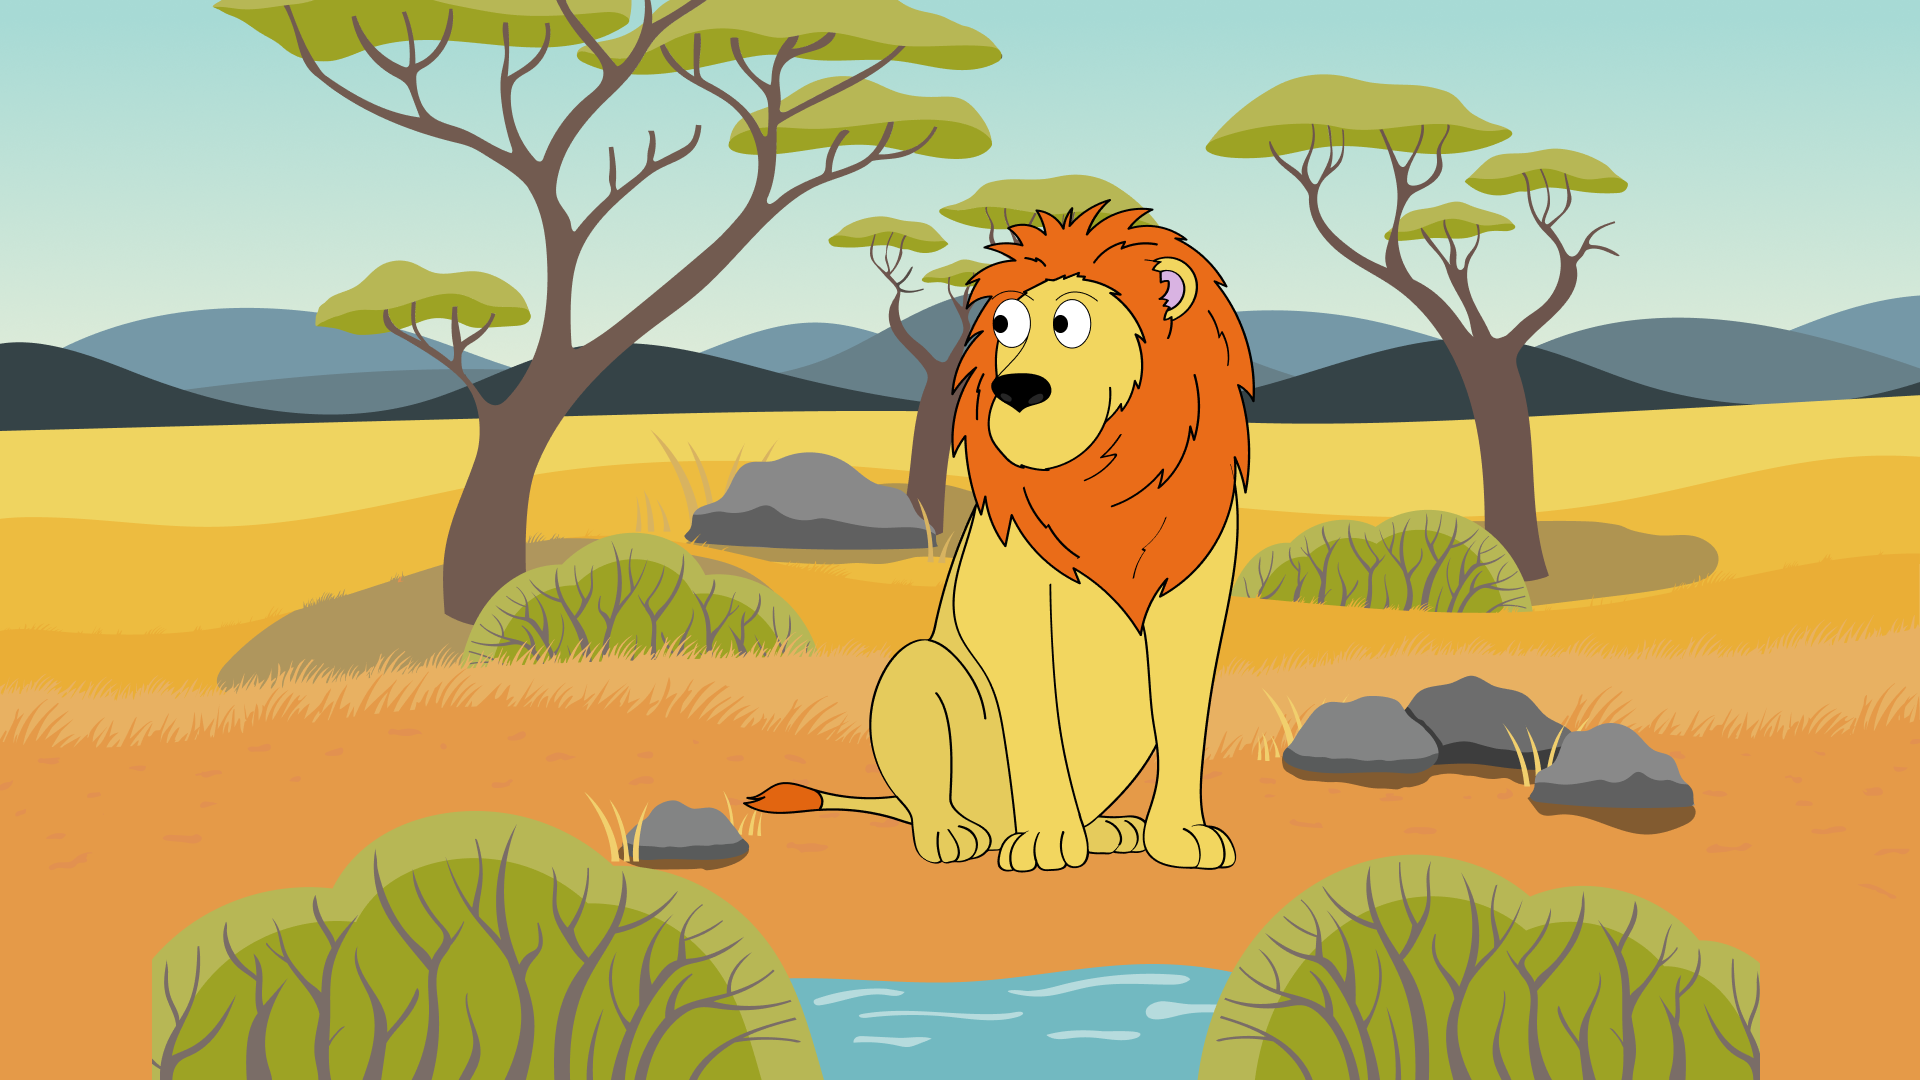
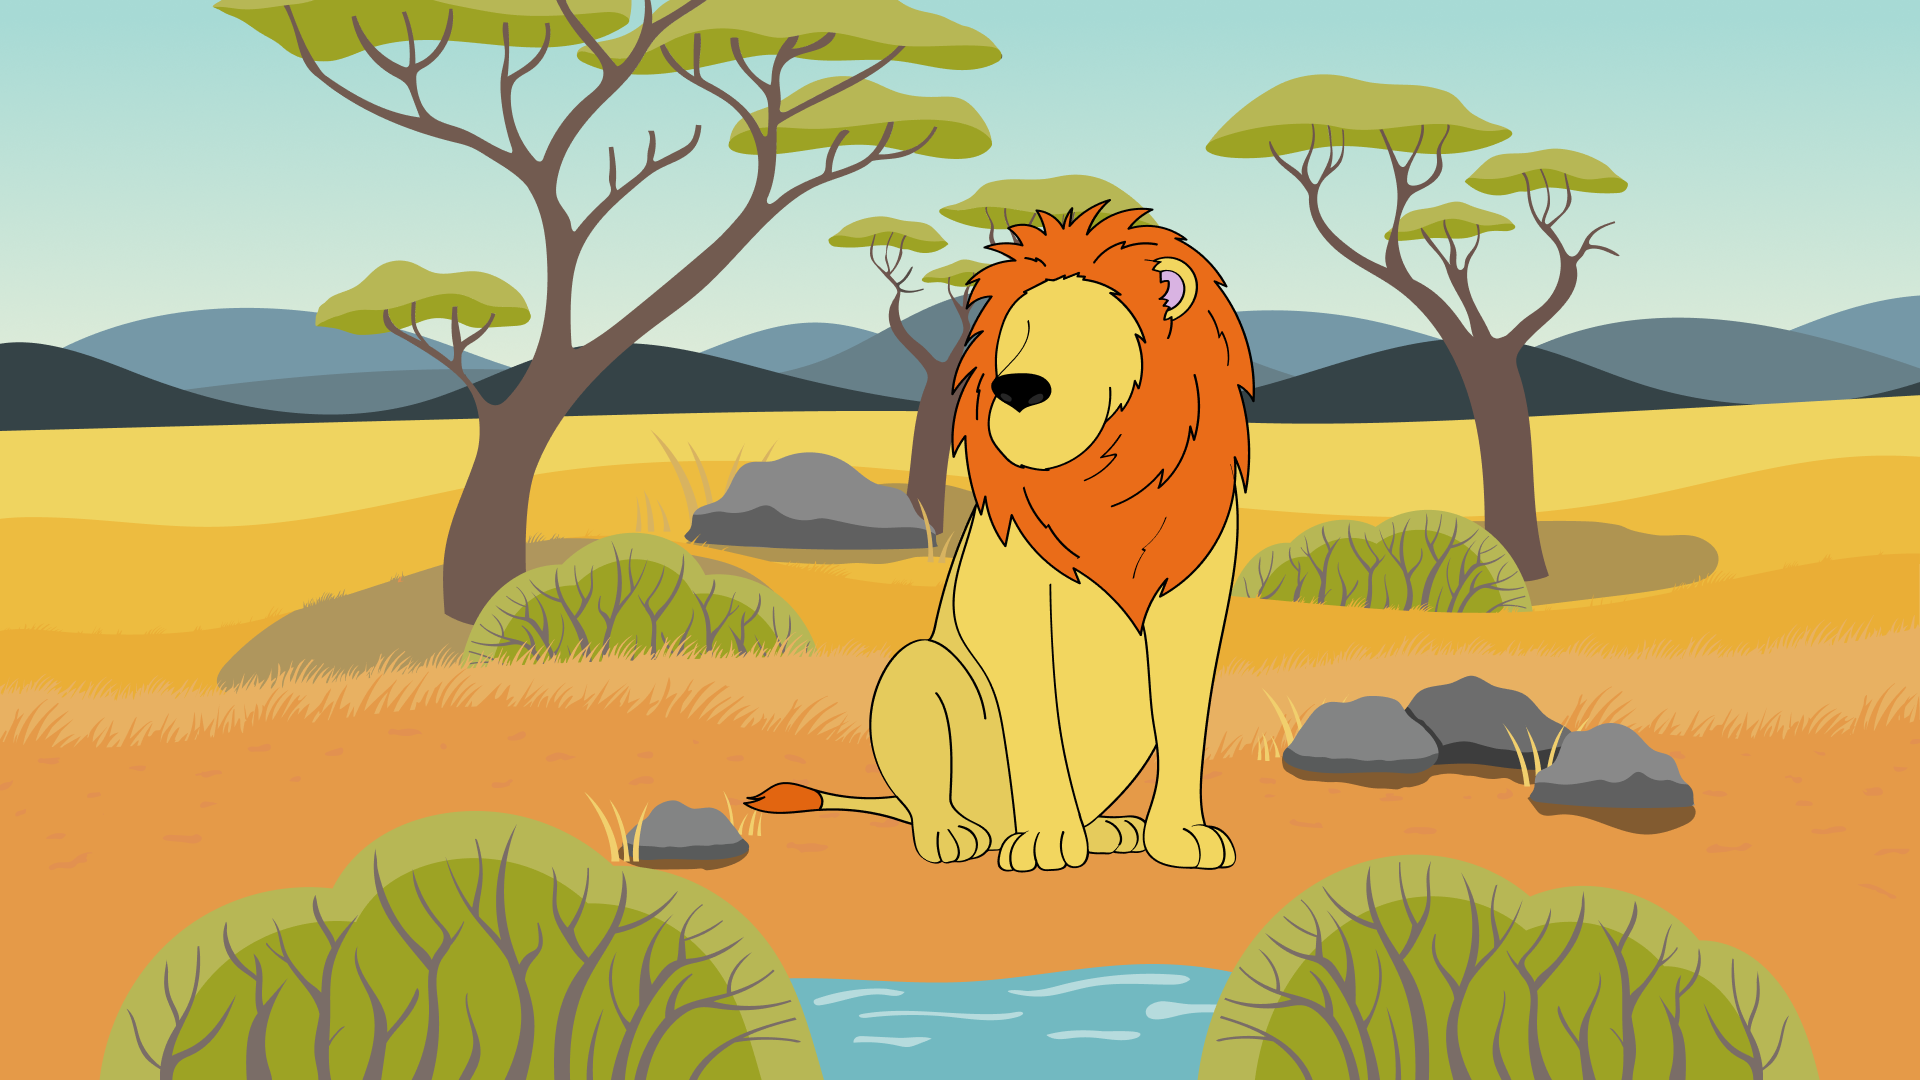
char blinks eyes

Changed region(s): [[0.9062, 0.8861, 0.9688, 1.0], [0.0312, 0.8861, 0.0938, 1.0], [0.5, 0.275, 0.5938, 0.3361]]

diff --git a/speaking_characters/render_episode.py b/speaking_characters/render_episode.py
@@ -1,14 +1,15 @@
+#!/usr/bin/env python3
+
 import os
 import json
 import shutil
 import subprocess
 import argparse
+import random
 from pathlib import Path
 from PIL import Image
-from PIL import ImageDraw
 
 FPS = 25
-
 
 # ======================
 # UTILS
@@ -31,14 +32,86 @@ def ensure_dir(path):
     os.makedirs(path, exist_ok=True)
 
 
-def load_mouth_image(viseme, mouths_dir):
-    filename = f"{viseme}.png"
-    path = os.path.join(mouths_dir, filename)
+# ======================
+# IMAGE LOADERS
+# ======================
 
+def load_mouth_image(viseme, mouths_dir):
+    path = os.path.join(mouths_dir, f"{viseme}.png")
     if not os.path.exists(path):
         raise ValueError(f"Viseme image not found: {path}")
-
     return Image.open(path).convert("RGBA")
+
+
+def load_eye_image(state, eyes_dir):
+    path = os.path.join(eyes_dir, f"{state}.png")
+    if not os.path.exists(path):
+        raise ValueError(f"Eye image not found: {path}")
+    return Image.open(path).convert("RGBA")
+
+
+# ======================
+# EYE TIMELINE GENERATOR
+# ======================
+
+def generate_eye_timeline(duration, eyes_config):
+
+    min_interval = eyes_config.get("min_blink_interval", 3.0)
+    max_interval = eyes_config.get("max_blink_interval", 5.5)
+    min_duration = eyes_config.get("min_blink_duration", 0.18)
+    max_duration = eyes_config.get("max_blink_duration", 0.28)
+
+    timeline = []
+    current_time = 0.0
+
+    while current_time < duration:
+
+        interval = random.uniform(min_interval, max_interval)
+        blink_duration = random.uniform(min_duration, max_duration)
+
+        blink_start = current_time + interval
+        blink_end = blink_start + blink_duration
+
+        if blink_start >= duration:
+            timeline.append({
+                "start": current_time,
+                "end": duration,
+                "eye": "OPEN"
+            })
+            break
+
+        # OPEN phase
+        timeline.append({
+            "start": current_time,
+            "end": blink_start,
+            "eye": "OPEN"
+        })
+
+        # Blink breakdown
+        half_phase = blink_duration * 0.3
+        closed_phase = blink_duration * 0.4
+
+        timeline.append({
+            "start": blink_start,
+            "end": blink_start + half_phase,
+            "eye": "HALF-OPEN"
+        })
+
+        timeline.append({
+            "start": blink_start + half_phase,
+            "end": blink_start + half_phase + closed_phase,
+            "eye": "CLOSED"
+        })
+
+        timeline.append({
+            "start": blink_start + half_phase + closed_phase,
+            "end": blink_end,
+            "eye": "HALF-OPEN"
+        })
+
+        current_time = blink_end
+
+    return timeline
 
 
 # ======================
@@ -66,17 +139,21 @@ def render(episode):
     total_duration = get_total_duration(timeline)
     total_frames = time_to_frame(total_duration)
 
-    print(f"Total duration: {total_duration:.2f}s")
-    print(f"Total frames: {total_frames}")
-
     ensure_dir(FRAMES_DIR)
     ensure_dir(OUTPUT_DIR)
 
+    # Emotions
     emotion_1 = position.get("emotion_1", "HAPPY")
     emotion_2 = position.get("emotion_2", emotion_1)
     transition_time = position.get("emotion_transition_time", float("inf"))
 
+    # Generate procedural eye animation
+    eyes_config = position.get("eyes", {})
+    eye_timeline = generate_eye_timeline(total_duration, eyes_config)
+
+    # Caches
     mouth_cache = {}
+    eye_cache = {}
 
     for frame_number in range(total_frames):
 
@@ -88,52 +165,97 @@ def render(episode):
         else:
             current_emotion = emotion_2
 
+        # ======================
+        # MOUTH
+        # ======================
+
         mouths_dir = f"characters/lion/mouths/{current_emotion}"
 
-        # Find active viseme
         current_viseme = "CLOSED"
-
         for segment in timeline:
             if segment["start"] <= current_time < segment["end"]:
                 current_viseme = segment["viseme"]
                 break
 
-        cache_key = f"{current_emotion}_{current_viseme}"
+        mouth_cache_key = f"{current_emotion}_{current_viseme}"
+        if mouth_cache_key not in mouth_cache:
+            mouth_cache[mouth_cache_key] = load_mouth_image(current_viseme, mouths_dir)
 
-        if cache_key not in mouth_cache:
-            mouth_cache[cache_key] = load_mouth_image(current_viseme, mouths_dir)
+        mouth_img = mouth_cache[mouth_cache_key]
 
-        mouth_img = mouth_cache[cache_key]
+        mouth_cfg = position["mouth"]
 
-        transformed = mouth_img.copy()
-
-        # Scale
-        scale = position.get("scale", 1.0)
-        new_size = (
-            int(transformed.width * scale),
-            int(transformed.height * scale)
+        mouth_transformed = mouth_img.copy()
+        mouth_transformed = mouth_transformed.resize(
+            (
+                int(mouth_transformed.width * mouth_cfg.get("scale", 1)),
+                int(mouth_transformed.height * mouth_cfg.get("scale", 1))
+            ),
+            Image.LANCZOS
         )
-        transformed = transformed.resize(new_size, Image.LANCZOS)
+        mouth_transformed = mouth_transformed.rotate(
+            mouth_cfg.get("rotation", 0),
+            expand=True
+        )
 
-        # Rotation
-        rotation = position.get("rotation", 0)
-        transformed = transformed.rotate(rotation, expand=True)
+        # ======================
+        # EYES
+        # ======================
 
-        # Composite
+        eyes_dir = f"characters/lion/eyes/{current_emotion}"
+
+        current_eye_state = "OPEN"
+        for segment in eye_timeline:
+            if segment["start"] <= current_time < segment["end"]:
+                current_eye_state = segment["eye"]
+                break
+
+        eye_cache_key = f"{current_emotion}_{current_eye_state}"
+        if eye_cache_key not in eye_cache:
+            eye_cache[eye_cache_key] = load_eye_image(current_eye_state, eyes_dir)
+
+        eye_img = eye_cache[eye_cache_key]
+
+        eyes_cfg = position["eyes"]
+
+        eye_transformed = eye_img.copy()
+        eye_transformed = eye_transformed.resize(
+            (
+                int(eye_transformed.width * eyes_cfg.get("scale", 1)),
+                int(eye_transformed.height * eyes_cfg.get("scale", 1))
+            ),
+            Image.LANCZOS
+        )
+        eye_transformed = eye_transformed.rotate(
+            eyes_cfg.get("rotation", 0),
+            expand=True
+        )
+
+        # ======================
+        # COMPOSITING
+        # ======================
+
         frame = base_image.copy()
 
-        x = int(position["x"])
-        y = int(position["y"])
+        # Eyes first
+        frame.paste(
+            eye_transformed,
+            (int(eyes_cfg["x"]), int(eyes_cfg["y"])),
+            eye_transformed
+        )
 
-        frame.paste(transformed, (x, y), transformed)
+        # Mouth after
+        frame.paste(
+            mouth_transformed,
+            (int(mouth_cfg["x"]), int(mouth_cfg["y"])),
+            mouth_transformed
+        )
 
         frame_path = os.path.join(FRAMES_DIR, f"frame_{frame_number:05d}.png")
         frame.save(frame_path)
 
         if frame_number % 50 == 0:
             print(f"Rendered frame {frame_number}/{total_frames}")
-
-    print("Frames generated.")
 
     # ======================
     # FFMPEG
@@ -157,10 +279,6 @@ def render(episode):
     subprocess.run(ffmpeg_cmd, check=True)
 
     print(f"Video generated: {OUTPUT_VIDEO}")
-
-    # ======================
-    # CLEANUP
-    # ======================
 
     print("Cleaning temporary frames...")
     shutil.rmtree(FRAMES_DIR)

diff --git a/speaking_characters/json_speach_to_viseme_timeline.py b/speaking_characters/json_speach_to_viseme_timeline.py
@@ -50,7 +50,7 @@ def normalize_word(word: str) -> str:
     return word
 
 # --------------------------------------------------
-# VISEME PAR MOT (plus précis)
+# VISEME PAR MOT
 # --------------------------------------------------
 
 def text_to_viseme(text: str, rules, default_viseme: str) -> str:
@@ -146,29 +146,48 @@ def main():
     rules, default_viseme = load_viseme_rules(args.viseme_config)
     raw_segments = parse_json_segments(args.input_json)
 
-    timeline = []
+    timeline: List[VisemeEvent] = []
     previous_end = None
 
+    # --------------------------------------------------
+    # Force bouche CLOSED dès 00.000
+    # --------------------------------------------------
+    if raw_segments:
+        first_word_start = max(0.0, raw_segments[0]["start"] + VISEME_OFFSET)
+
+        if first_word_start > 0:
+            timeline.append(
+                VisemeEvent(
+                    0.0,
+                    first_word_start,
+                    "CLOSED"
+                )
+            )
+            previous_end = first_word_start
+        else:
+            previous_end = 0.0
+
+    # --------------------------------------------------
+    # Génération timeline principale
+    # --------------------------------------------------
     for segment in raw_segments:
         base_start = segment["start"]
         base_end = segment["end"]
 
-        # --------------------------------------------------
-        # Gestion des silences réels entre mots
-        # --------------------------------------------------
+        start = max(0.0, base_start + VISEME_OFFSET)
+        end = base_end
+
+        # Gestion silence réel entre mots
         if previous_end is not None:
-            gap = base_start - previous_end
+            gap = start - previous_end
             if gap > SILENCE_THRESHOLD:
                 timeline.append(
                     VisemeEvent(
                         previous_end,
-                        base_start,
+                        start,
                         "CLOSED"
                     )
                 )
-
-        start = max(0, base_start + VISEME_OFFSET)
-        end = base_end
 
         viseme = text_to_viseme(segment["text"], rules, default_viseme)
 
@@ -194,6 +213,15 @@ def main():
     # --------------------------------------------------
     timeline = merge_consecutive_visemes(timeline)
 
+    # --------------------------------------------------
+    # Sécurité finale : garantir start = 0.000
+    # --------------------------------------------------
+    if timeline and timeline[0].start > 0:
+        timeline.insert(0, VisemeEvent(0.0, timeline[0].start, "CLOSED"))
+
+    # --------------------------------------------------
+    # Export JSON
+    # --------------------------------------------------
     output = [
         {
             "start": round(event.start, 3),
